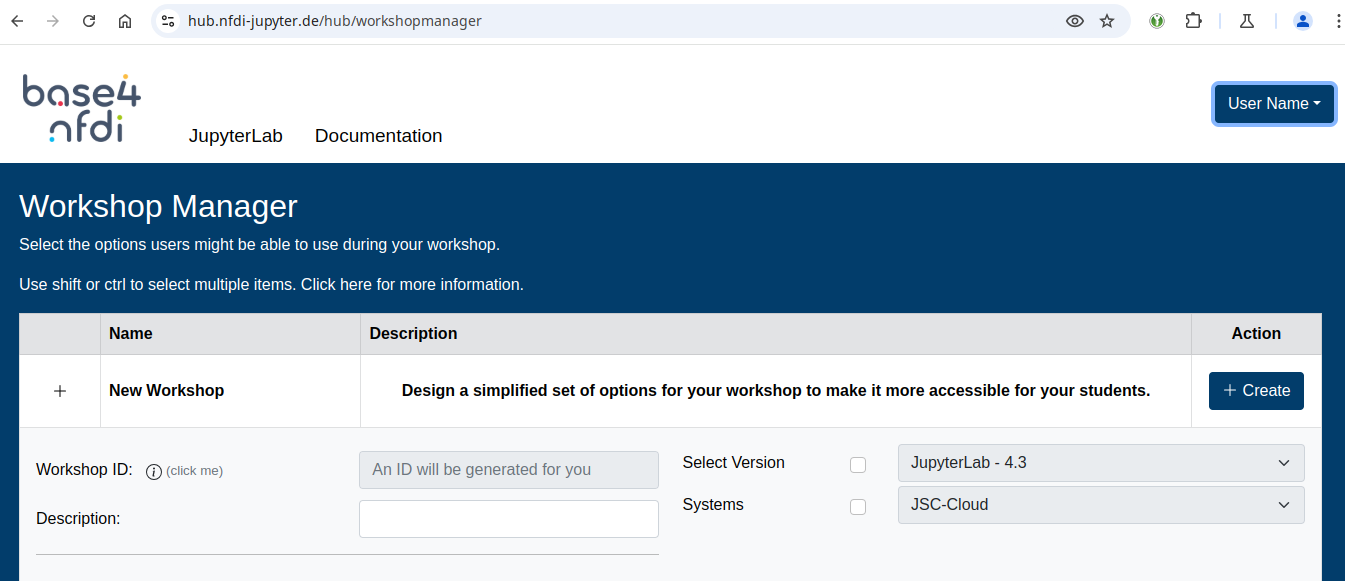
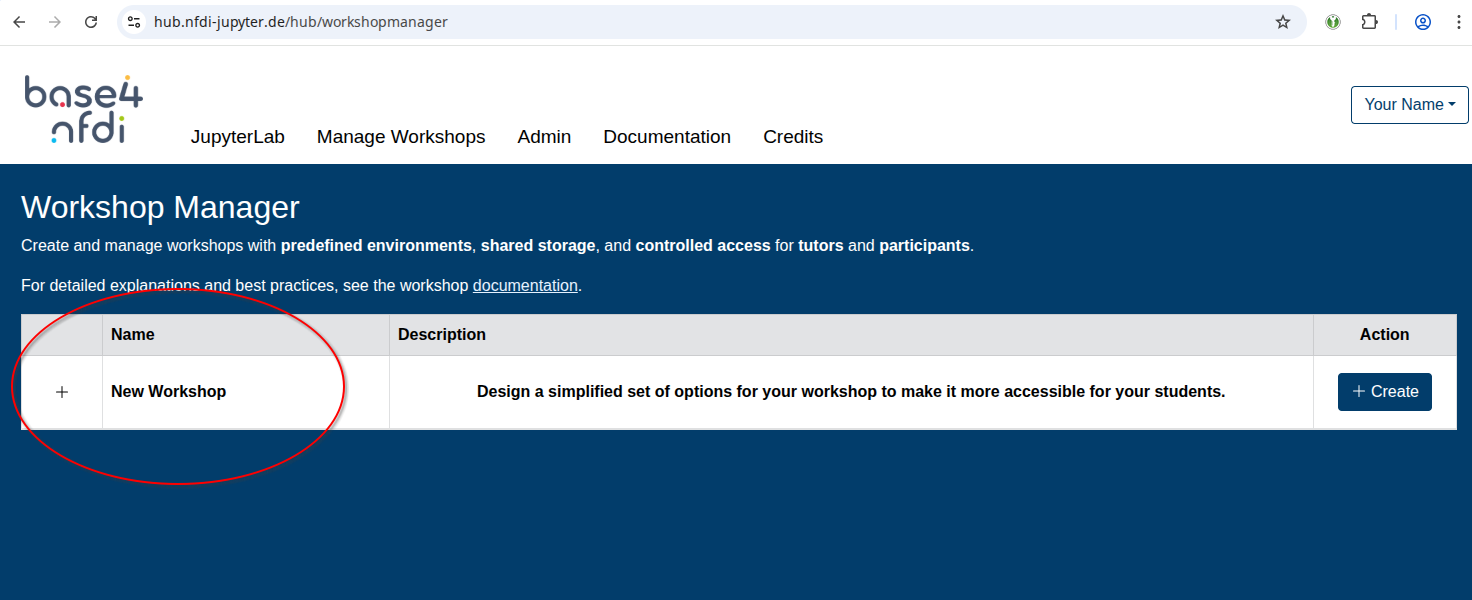
update workshop info

diff --git a/docs/workshops.md b/docs/workshops.md
@@ -1,133 +1,128 @@
 
-# Workshops
+# Manage Workshops
 
-There are no special requirements to use Jupyter4NFDI for a workshop, you can simply use the platform as you normally would. Participants gain access by using one of the available [authentication methods](authentication.md){:target="_blank"}. In this section, we cover some best practices for workshops.
+There are no special requirements to use Jupyter4NFDI for a workshop. In most cases, you can use the platform exactly as you would for your regular work. Participants simply log in using one of the supported [authentication methods](authentication.md){:target="_blank"}.  
+
+For workshops with more specific needs, Jupyter4NFDI provides additional features to support instructors and tutors. These include controlled environments, shared storage on cloud resources for preparing workshop-specific kernels, and optional collaboration features such as tutor access to participant sessions.
 
 > If you plan to host a workshop, we kindly ask you to let us know in advance ( [Contact](support.md){:target="_blank"} ). This helps us take your event into account when scheduling maintenance and ensures a smooth experience for all participants.
 
 ## Motivation
 
-Organizing workshops can be a complex task. Instructors must coordinate participant access, prepare materials such as presentations and Jupyter notebooks, and ensure that all components run reliably for every participant. Due to the wide range of options available when starting a service, users may inadvertently select incorrect configurations, such as the wrong system, kernel, or Docker image. These misconfigurations may not trigger immediate errors, but they can result in a non-functional or inconsistent runtime environment.
-
-To address these challenges and streamline the workshop experience, we offer the ability to create a dedicated **Workshop Website**. This site allows instructors to define a controlled environment for their workshop, which can then be shared with participants.
-
-## Managing Workshops (for Instructors)
-
-### Available Options
-
-As a workshop instructor, you may want to provide participants with a specific environment for your course. Depending on your needs, we offer three different ways to share your desired configuration:
-
-1. **Share Links**: A fixed configuration shared via a link that cannot be changed afterward.  
-    * **Pro**: Secrets (such as credentials for a private Docker registry) remain hidden from participants.  
-    * **Pro**: Works with any type of configuration.  
-    * **Contra**: Any changes to the configuration require generating a new link.
-
-2. **Repo2Docker Direct Links**: Links that point directly to your Git repository.  
-    * **Pro**: Supports various external sources like Git repositories, Zenodo, and more ([Repo2Docker](users/jupyterlab/repo2docker/index.md){:target="_blank"}).  
-    * **Contra**: Configuration changes may require a minor update to the link.  
-    * **Contra**: Only works with Repo2Docker.
-
-3. **Workshop Configuration**: A curated selection of allowed environments.  
-    * **Pro**: Define a controlled set of available options for your participants.  
-    * **Pro**: You can update the configurations at any time without changing the link.
+Organizing a workshop often involves more than just providing teaching material. Instructors need to coordinate access for participants, prepare notebooks and presentations, and ensure that everyone works in a consistent and functional environment.  
+  
+Without guidance, participants may accidentally select unsuitable configurations when starting a service - for example, an incorrect system, kernel, or Docker image. While these misconfigurations may not always fail immediately, they can lead to inconsistent behaviour or non-functional environments during the workshop.  
+  
+Jupyter4NFDI addresses these challenges by offering dedicated workshop features that simplify preparation and execution:  
+  
+- **Controlled environments** ensure that all participants start with comptabile configurations.  
+- **Shared storage on cloud resources** allows instructors or tutors to prepare kernels, environments, or data once and make them available for the entire workshop.  
+- **Session access** enabled designated tutors to temporarily join participant JupyterLab sessions for live support and troubleshooting.  
+- **Restricted participant lists** allow workshops to be limited to specific users, which can also enable qualification for additional workshop-specific credits.  
+    
+  
+Together, these features reduce setup overhead, minimize configuration errors, and create a more reliable and supportive learning environment for both instructors and participants.
 
 
-### [Share Links](users/misc.md#share-button){:target="_blank"}
+## Managing Workshops
 
-To use Share Links in your workshop, go to the <a href="https://hub.nfdi-jupyter.de", target="_blank">Jupyter4NFDI service</a>, log in, and configure the environment you want participants to use. Once everything is set up, click the <strong>Share</strong> button to generate a unique link, which you can then distribute to your participants.
-
+The **Instructor** is the owner and primary administartor of a workshop. This role is responsible for creating the workshop, defining its configuration and managing access for tutors and participants.  
+  
+All workshop-related settings are managed through the [**Workshop Manager Page**](https://hub.nfdi-jupyter.de/workshopmanager){:target="_blank"}.
 
 <div style="text-align: center;">
-<img src="../images/sharebutton_1.png" alt="Create Share Link" style="width: 90%;">
+  <img src="../images/workshops/manager_1.png" alt="WorkshopManager" style="width: 90%;">
+</div>  
+
+## Responsibilities of the Instructor
+As an instructor, you can:  
+  
+- Create and manage workshops via the Workshop Manager Page  
+- Control who may participate in the workshop and configure shared storage  
+- Define the available runtime environment (allowed systems, versions and configuration options)  
+- Assign tutors and define their permissions  
+  
+
+### Creating a workshop
+  
+Open the [**Workshop Manager Page**](https://hub.nfdi-jupyter.de/workshopmanager){:target="_blank"} and click on "New Workshop" to expand the workshop creation form.
+  
+- Choose a unique identifier for your workshop. The workshop will be reachable at *https://hub.nfdi-jupyter.de/workshops/_id_*. Allowed characters: `a-z 0-9 _ -` . Must start with a lowercase letter `([a-z][a-z0-9_-]*)`.  
+- Provide a short description of the workshop. This text is displayed on the workshop page and helps participants understand the purpose and scope of the event.
+  
+<div style="text-align: center;">
+  <img src="../images/workshops/manager_2.png" alt="WorkshopManager" style="width: 90%;">
+</div>  
+  
+That's all you need to create your first workshop. Additional options can be configured later and do not require changing the workshop link.
+
+
+### Shared storage and restricted participants
+Workshops can optionally be restricted to a specific list of participants. When participant restriction is enabled, the workshop automatically receives **50 GB of shared storage** on supported cloud resources (currently deNBI-Cloud and JSC-Cloud).
+  
+This shared storage can be used by instructors and tutors to prepare environments, kernels, and data for the workshop.  
+  
+Participants are identified by their **email adress**. If a user is unsure which email adress is associated with their account, they can visit [https://hub.nfdi-jupyter.de/hub/login?next=/hub/api/user](https://hub.nfdi-jupyter.de/hub/login?next=/hub/api/user){:target="_blank"}, login and look for a group name starting with the prefix `"email:"`. 
+
+You can also configure the access level to the shared storage, allowing participants either **read-only** access or **read-write** access, depending on the requirements of your workshop.
+  
+<div style="text-align: center;">
+  <img src="../images/workshops/manager_3.png" alt="WorkshopManager" style="width: 90%;">
+</div>  
+
+### Runtime Environment
+On the right-hand side of the form, you can predefine the runtime environment for your workshop. This allows you to control which options are available to participants when they visit the workshop website.
+  
+You may, for example, preselect or restrict:  
+  
+- The target system or service  
+- Flavors  
+- Environment variables  
+- Specific Docker images  
+- Repo2Docker-based configurations  
+  
+By defining these settings in advance, you prevent common configuration mistakes and ensure that all participants work in a consistent and reproducible environment throughout the workshop.
+
+<div style="text-align: center;">
+  <img src="../images/workshops/manager_4.png" alt="WorkshopManager" style="width: 90%;">
+</div>  
+
+### Tutor configuration
+You can assign one or more users as **Tutors** for your workshop.
+  
+Tutors always receive read-write access to the shared workshop storage. In addition, you may optionally allow tutors to **join participant JupyterLab sessions** to provide live support and troubleshooting, using the [JupyterLab Real Time Collaboration feature](https://jupyterlab.readthedocs.io/en/stable/user/rtc.html){:target="_blank"}.
+
+Participants are always informed if tutors are permitted to access their JupyterLab sessions.
+
+> Changes to tutor access permissions apply only to newly started sessions. Running JupyterLab servers are not affected.
+
+<div style="text-align: center;">
+  <img src="../images/workshops/manager_5.png" alt="WorkshopManager" style="width: 90%;">
+</div>  
+
+### Requesting Additional Workshop Credits
+When hosting a workshop, the default personal credits of participants may not be sufficient, especially for sessions that require longer runtimes or increased computational resources.  
+  
+To support such scenarios, instructors can request additional credits specifically for a workshop.
+  
+On the workshop page, instructors will find a “Request additional credits for this workshop” link. Clicking this link opens a pre-filled email draft addressed to the Jupyter4NFDI support team.  
+  
+The email template includes the most important information needed to process the request, such as:  
+  
+- Workshop ID  
+- Workshop date  
+- Target cloud system (e.g. JSC-Cloud, deNBI-Cloud)  
+- Expected number of participants  
+- Expected resources per participant (CPU, RAM)  
+- Optional additional remarks  
+  
+Instructors only need to review the information, fill in any missing details, and send the email. The support team will then review the request and get back to you if further clarification is required.
+  
+Additional credits are granted on a per-workshop basis and are intended exclusively for the duration of the specified workshop.
+  
+<div style="text-align: center;">
+  <img src="../images/workshops/manager_6.png" alt="WorkshopManager" style="width: 90%;">
 </div>
 
-<div style="text-align: center;">
-<img src="../images/sharebutton_2.png" alt="Create Share Link - 2" style="width: 40%;">
-</div>
 
-Keep in mind: if you make any changes to the configuration, a <strong>new share link</strong> will be generated. Be sure to share the updated link with your participants if any modifications are made.
-
-> If a configuration includes secrets, they will remain hidden from other users. Instead of the actual values, participants will only see placeholders — but the original secrets entered when creating the share link will still be applied during startup.
-
-### [Repo2Docker Direct Links](users/jupyterlab/repo2docker/index.md#direct-links){:target="_blank"}
-
-Repo2Docker Direct Links are a great option when you want to launch a specific Git repository — other sources like Zenodo are also supported. Simply place your notebooks and their dependencies into the repository (see the [Repo2Docker / Binder Documentation](https://mybinder.readthedocs.io/en/latest/tutorials/reproducibility.html){:target="_blank"}) to define your custom environment. All required packages will be automatically installed.
-
-By using the `urlpath` or `labpath` query parameters, participants can jump directly into JupyterLab with the desired file already open.
-
-If you use `HEAD` as the reference, the Direct Link will always reflect the latest version of your repository. This makes it easy to update notebooks or dependencies without needing to change the link.
-
-### Workshop Configuration
-
-Instructors can visit the [Workshop Manager Website](https://hub.nfdi-jupyter.de/workshopmanager){:target="_blank"} to configure and manage their own workshops.
-This will create a subset of the available options in Jupyter4NFDI.
-
-[https://hub.nfdi-jupyter.de/workshopmanager](https://hub.nfdi-jupyter.de/workshopmanager){:target="_blank"}
-
-<div style="text-align: center;">
-  <img src="../images/workshops/manager_1.png" alt="WorkshopManager1" style="width: 90%;">
-</div>  
-
-Each instructor can define a subset of configuration options that are permitted during the workshop. These settings are then made accessible to participants via a unique "Workshop Link." You may edit your workshop configuration at any time. Clicking **"Create"** (or **"Share"** for existing workshops) will provide you with a personalized link to distribute.
-
-#### Workshop ID
-
-By default, a randomly generated ID is assigned when a new workshop is created. This ID forms the URL for the workshop, such as:
-
-https://hub.nfdi-jupyter.de/workshops/_id_
-
-If you prefer a custom identifier (e.g., `myworkshop2025`), please contact support to enable this feature for your account.
-
-#### Description
-
-Include a short description of your workshop. This will be displayed on the corresponding workshop page, helping users verify they are on the correct site.
-
-#### Configuration Options
-
-Each available option includes a checkbox. If a checkbox is **not** selected, users will retain access to **all** available values for that option. To restrict user selection, ensure the checkbox is checked and specify the allowed values.
-
-<div style="text-align: center;">
-  <img src="../images/workshops/manager_2.png" alt="WorkshopManager2" style="width: 50%;">
-</div>  
-
-
-##### Dropdown Menus
-
-For dropdown selections, multiple values may be chosen using **CTRL+Click** or **SHIFT+Click**. At least one value must be selected for the configuration to be valid. If multiple values are selected, a default value can be specified.
-
-<div style="text-align: center;">
-  <img src="../images/workshops/manager_3.png" alt="WorkshopManager3" style="width: 50%;">
-</div>  
-
-
-##### Input Fields
-
-Input fields can be used to enforce specific values (e.g., setting the runtime to 30 minutes or nodes to 1). If the checkbox next to an input field is selected, the defined value will be enforced. If the checkbox is left unchecked, users may input their own value when starting a service.
-
-<div style="text-align: center;">
-  <img src="../images/workshops/manager_4.png" alt="WorkshopManager4" style="width: 50%;">
-</div>  
-
-
-#### Expert Mode
-
-Instructors who are part of the **Workshop Instructor** group gain access to additional features, such as:
-
-- Creating custom workshop IDs
-- Activating **Expert Mode** during workshop creation
-
-Expert Mode enables the selection of multiple services and systems. However, this mode is disabled by default, as it introduces a higher risk of invalid configurations. For instance, selecting both JURECA and JUWELS as systems, but allowing only the partition `dc-cpu` (which is not available on JUWELS), will result in an unusable setup.
-
-> To join the Workshop Instructor group contact support.
-
-
-### Workshop Website
-
-The workshop website will show the regular configuration interface. However, only the options pre-defined by the instructor will be available for selection.
-
-<div style="text-align: center;">
-  <img src="../images/workshops/workshop_1.png" alt="Workshop1" style="width: 90%;">
-</div>  
-
-
-> Having issues setting up your workshop? Feel free to [contact us](support.md).
+> Having issues setting up your workshop? Feel free to [contact us](support.md).  
